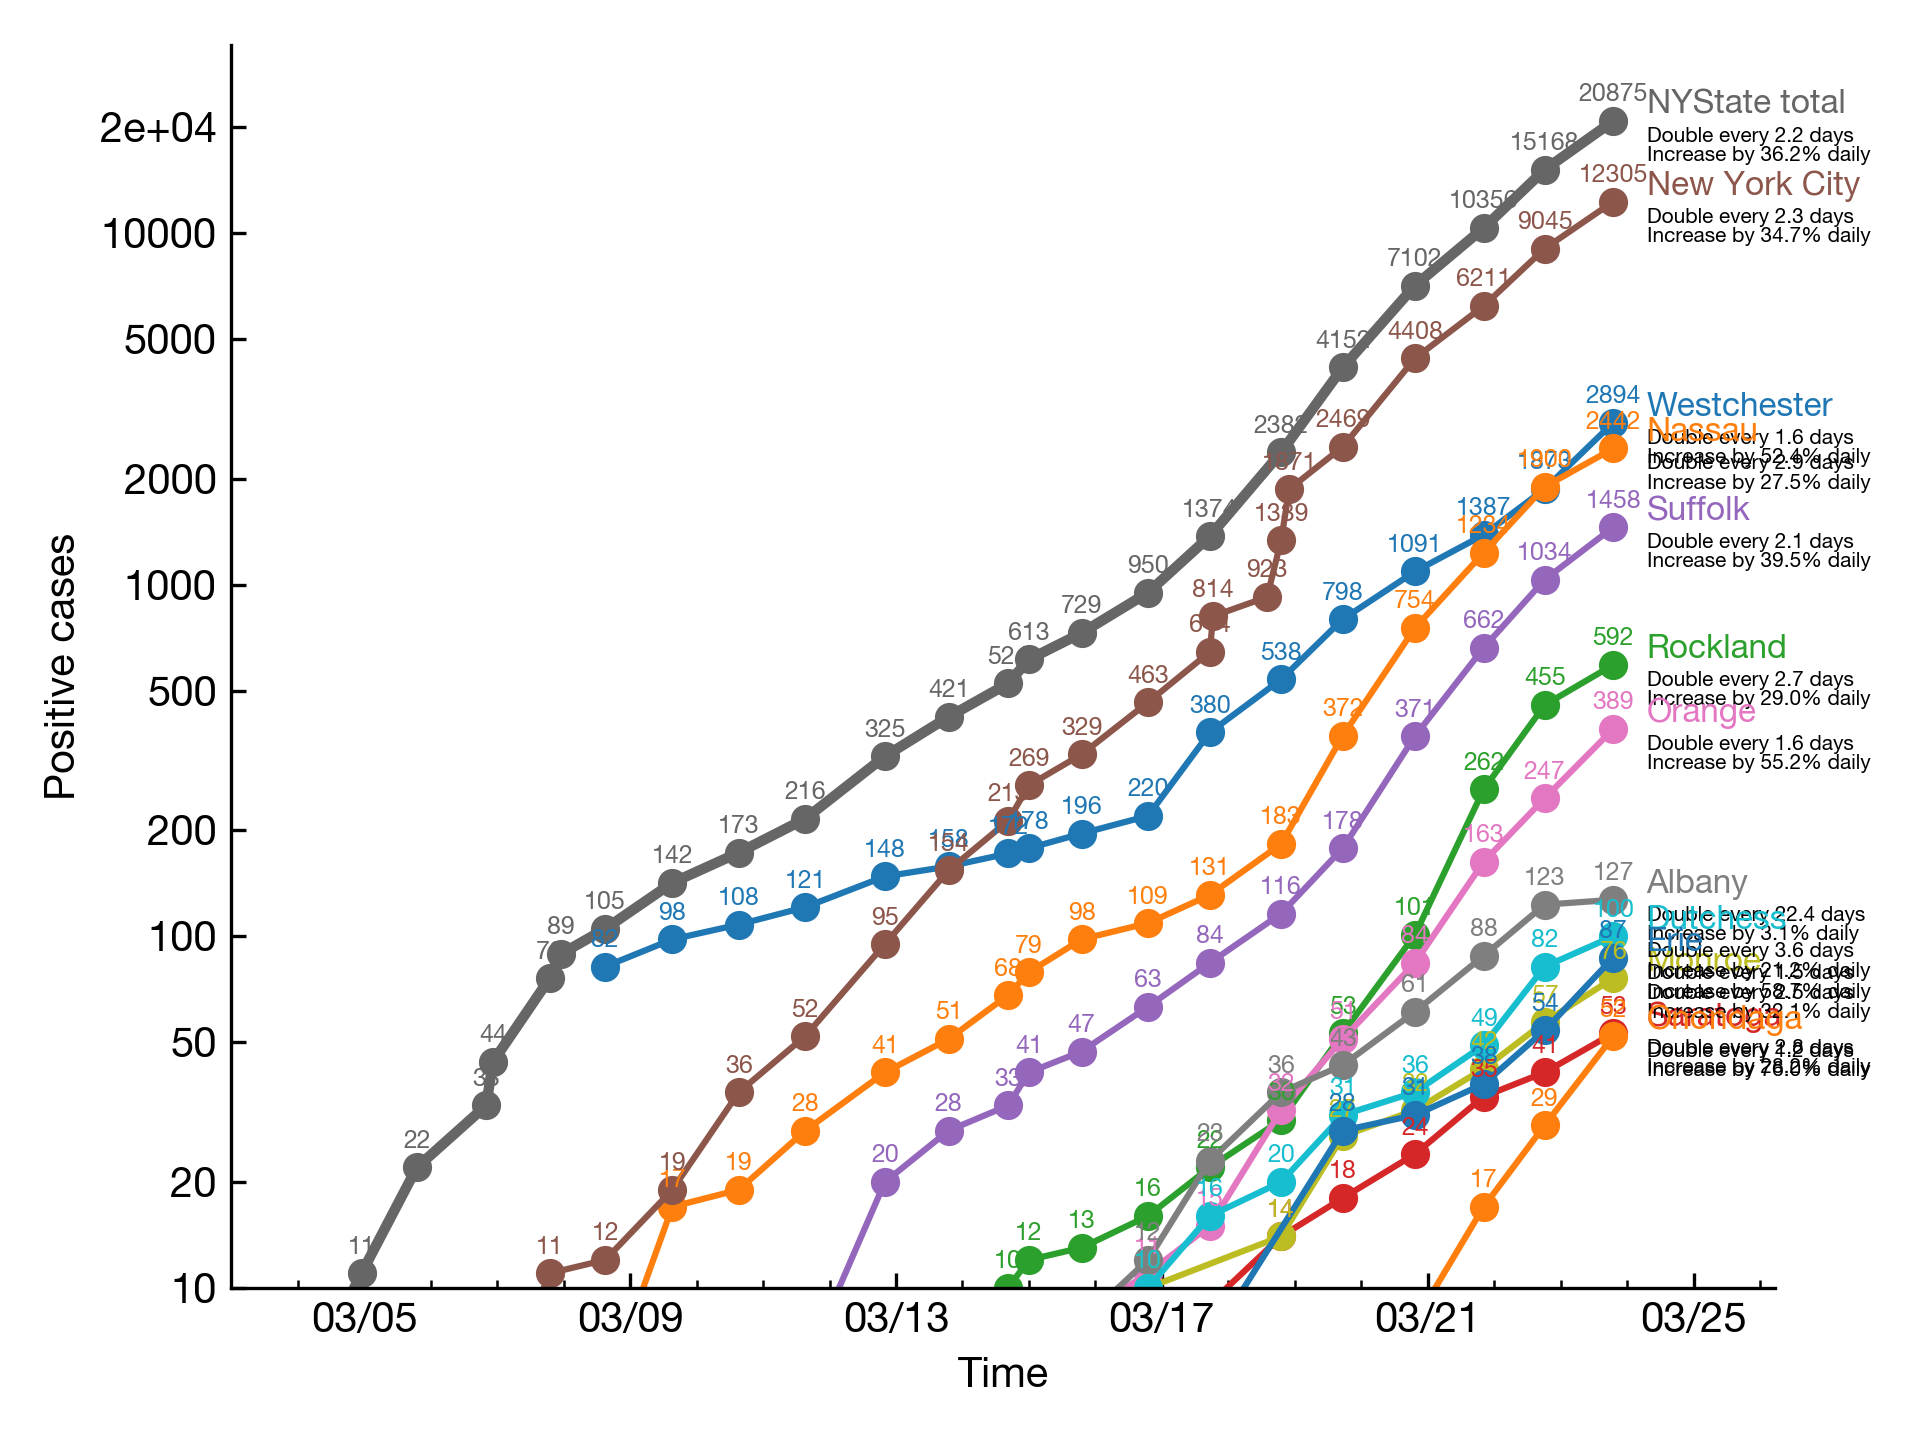
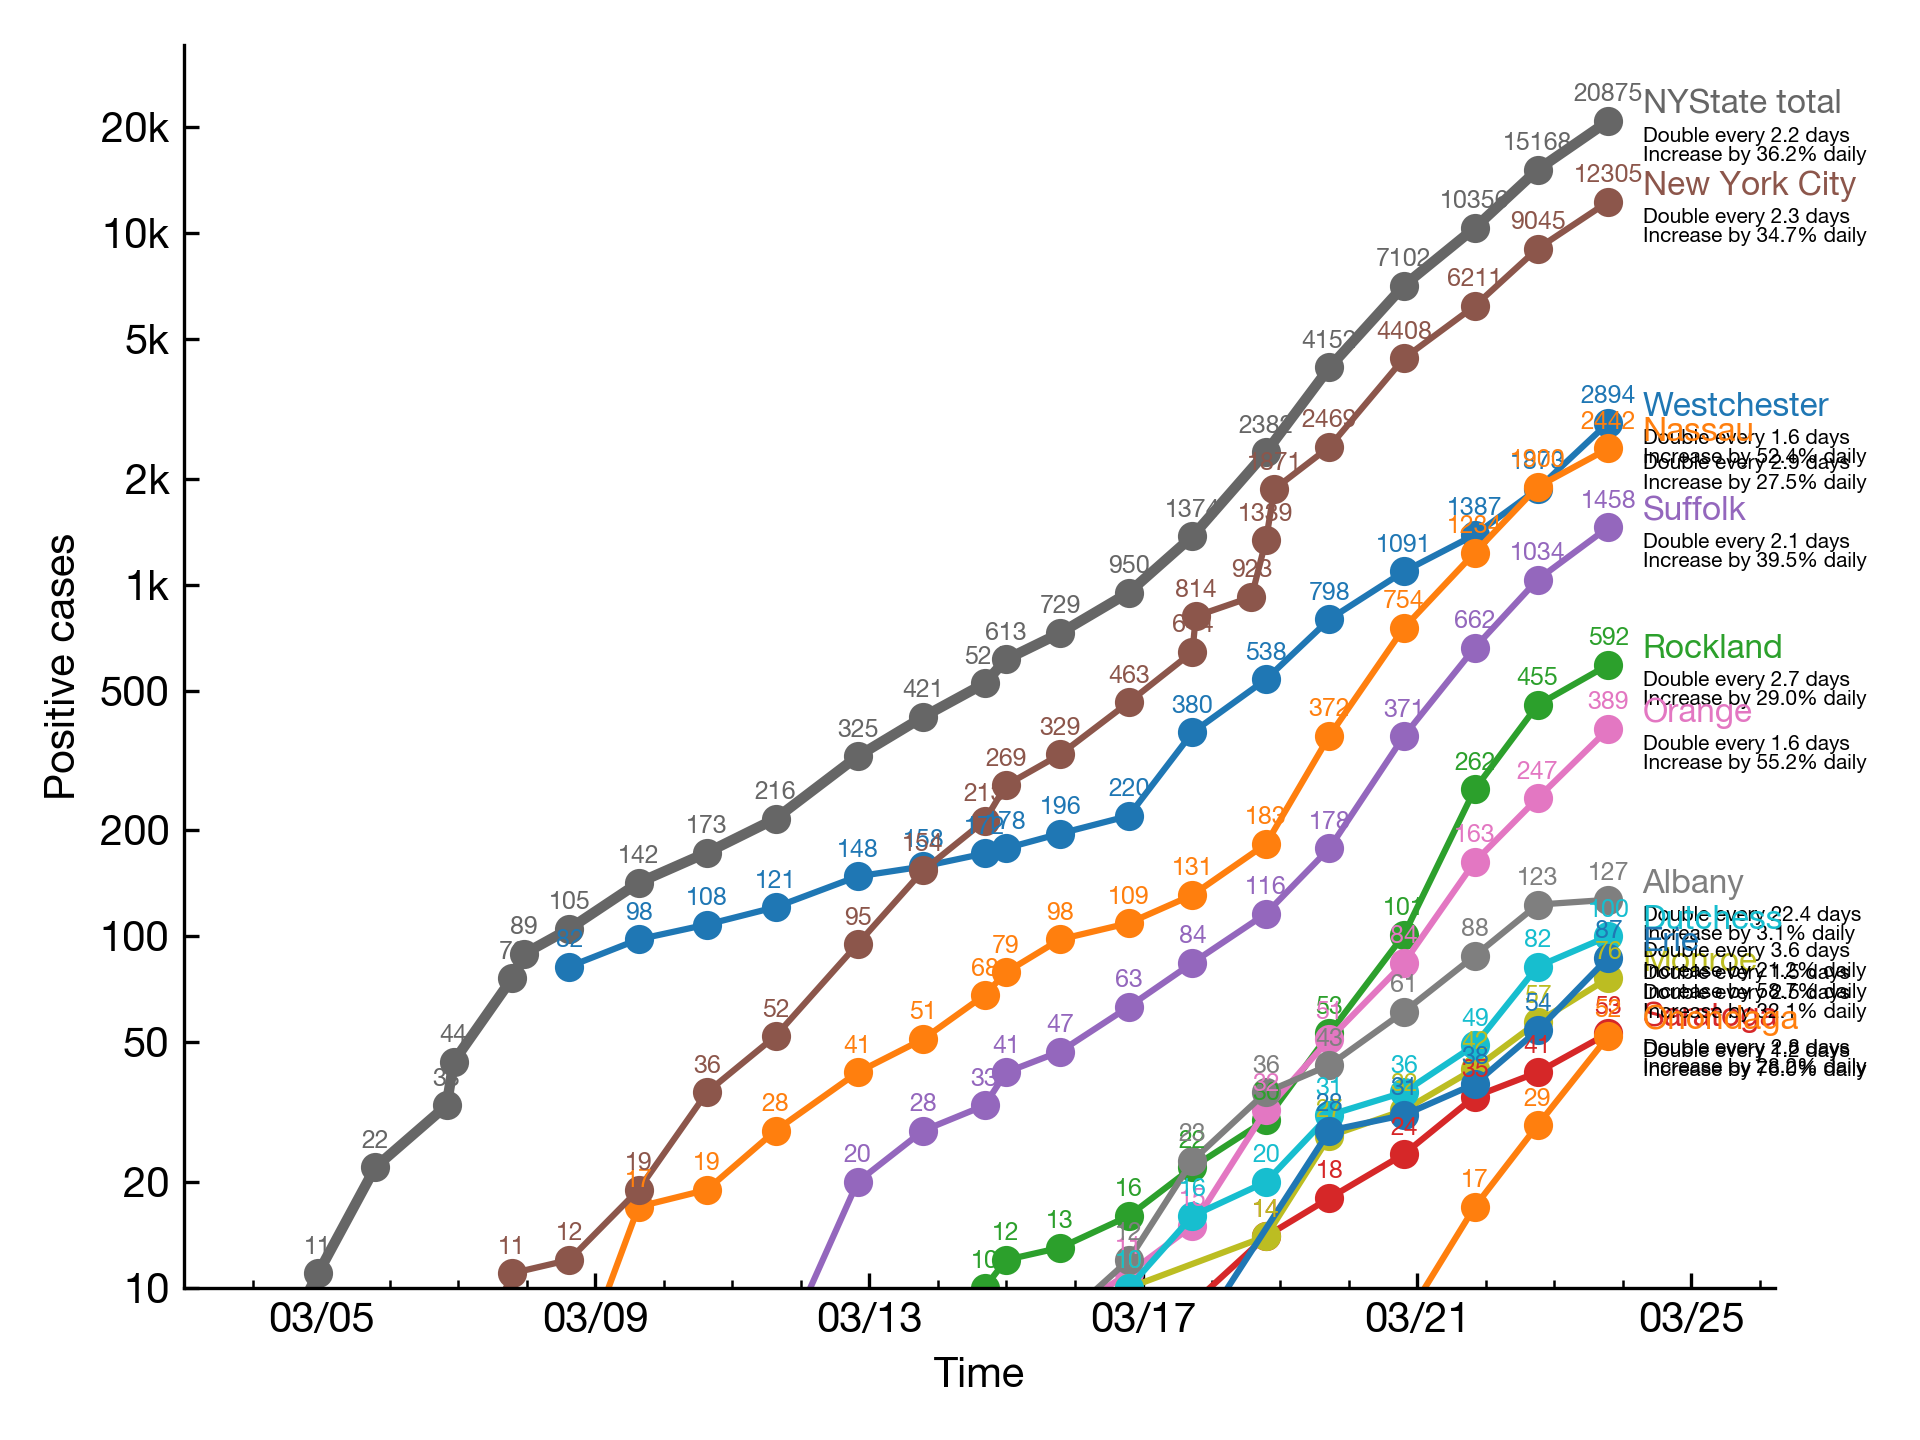
Updating Y axis format

diff --git a/scripts/plot_v2.py b/scripts/plot_v2.py
@@ -37,15 +37,15 @@ plt.ylabel("Positive case")
 
 from matplotlib.dates import AutoDateLocator, DateFormatter
 from matplotlib.ticker import LogLocator, NullLocator, LogFormatter
+from util import LogFormatterSI
 import numpy
 
 plt.gca().xaxis.set_major_locator(AutoDateLocator())
 plt.gca().xaxis.set_major_formatter(DateFormatter("%m/%d"))
 #plt.gca().xaxis.set_minor_locator(AutoDateLocator())
 plt.gca().yaxis.set_major_locator(LogLocator(subs=(1, 2, 5)))
-plt.gca().yaxis.set_major_formatter(LogFormatter(labelOnlyBase=False, minor_thresholds=(numpy.inf, numpy.inf)))
+plt.gca().yaxis.set_major_formatter(LogFormatterSI(labelOnlyBase=False, minor_thresholds=(numpy.inf, numpy.inf)))
 plt.gca().yaxis.set_minor_locator(NullLocator())
-
 
 plt.title("New York State COVID-19 positive case count")
 

diff --git a/scripts/plot3.py b/scripts/plot3.py
@@ -35,13 +35,14 @@ plt.ylabel("Positive case")
 
 from matplotlib.dates import AutoDateLocator, DateFormatter
 from matplotlib.ticker import LogLocator, NullLocator, LogFormatter
+from util import LogFormatterSI
 import numpy
 
 plt.gca().xaxis.set_major_locator(AutoDateLocator())
 plt.gca().xaxis.set_major_formatter(DateFormatter("%m/%d"))
 #plt.gca().xaxis.set_minor_locator(AutoDateLocator())
 plt.gca().yaxis.set_major_locator(LogLocator(subs=(1, 2, 5)))
-plt.gca().yaxis.set_major_formatter(LogFormatter(labelOnlyBase=False, minor_thresholds=(numpy.inf, numpy.inf)))
+plt.gca().yaxis.set_major_formatter(LogFormatterSI(labelOnlyBase=False, minor_thresholds=(numpy.inf, numpy.inf)))
 plt.gca().yaxis.set_minor_locator(NullLocator())
 
 

diff --git a/scripts/plot4.py b/scripts/plot4.py
@@ -59,13 +59,14 @@ plt.ylabel("Death count")
 
 from matplotlib.dates import AutoDateLocator, DateFormatter
 from matplotlib.ticker import LogLocator, NullLocator, LogFormatter
+from util import LogFormatterSI
 import numpy
 
 plt.gca().xaxis.set_major_locator(AutoDateLocator())
 plt.gca().xaxis.set_major_formatter(DateFormatter("%m/%d"))
 #plt.gca().xaxis.set_minor_locator(AutoDateLocator())
 plt.gca().yaxis.set_major_locator(LogLocator(subs=(1, 2, 5)))
-plt.gca().yaxis.set_major_formatter(LogFormatter(labelOnlyBase=False, minor_thresholds=(numpy.inf, numpy.inf)))
+plt.gca().yaxis.set_major_formatter(LogFormatterSI(labelOnlyBase=False, minor_thresholds=(numpy.inf, numpy.inf)))
 plt.gca().yaxis.set_minor_locator(NullLocator())
 
 

diff --git a/scripts/plot2.py b/scripts/plot2.py
@@ -159,12 +159,13 @@ plt.ylabel("Positive cases")
 
 from matplotlib.dates import AutoDateLocator, DateFormatter
 from matplotlib.ticker import LogLocator, NullLocator, LogFormatter
+from util import LogFormatterSI
 
 plt.gca().xaxis.set_major_locator(AutoDateLocator())
 plt.gca().xaxis.set_major_formatter(DateFormatter("%m/%d"))
 #plt.gca().xaxis.set_minor_locator(AutoDateLocator())
 plt.gca().yaxis.set_major_locator(LogLocator(subs=(1, 2, 5)))
-plt.gca().yaxis.set_major_formatter(LogFormatter(labelOnlyBase=False, minor_thresholds=(numpy.inf, numpy.inf)))
+plt.gca().yaxis.set_major_formatter(LogFormatterSI(labelOnlyBase=False, minor_thresholds=(numpy.inf, numpy.inf)))
 plt.gca().yaxis.set_minor_locator(NullLocator())
 
 

diff --git a/scripts/save_nyc_pdf.py b/scripts/save_nyc_pdf.py
@@ -1,0 +1,19 @@
+import requests
+from pathlib import Path
+
+def archive_url(output_path: Path, url: str):
+    resp = requests.get(url, stream=True)
+    if resp.status_code == 200:
+        with open(output_path, "wb") as fp:
+            for chunk in resp:
+                fp.write(chunk)
+
+
+from peewee import Model, SqliteDatabase
+
+db = SqliteDatabase("archive_records.db")
+
+class BaseModel(Model):
+    class Meta:
+        database = db
+

diff --git a/scripts/util/__init__.py b/scripts/util/__init__.py
@@ -1,0 +1,6 @@
+import si_prefix
+from matplotlib.ticker import LogFormatter
+
+class LogFormatterSI(LogFormatter):
+    def _num_to_string(self, x, vmin, vmax):
+        return si_prefix.si_format(x, precision=0, format_str='{value}{prefix}')
